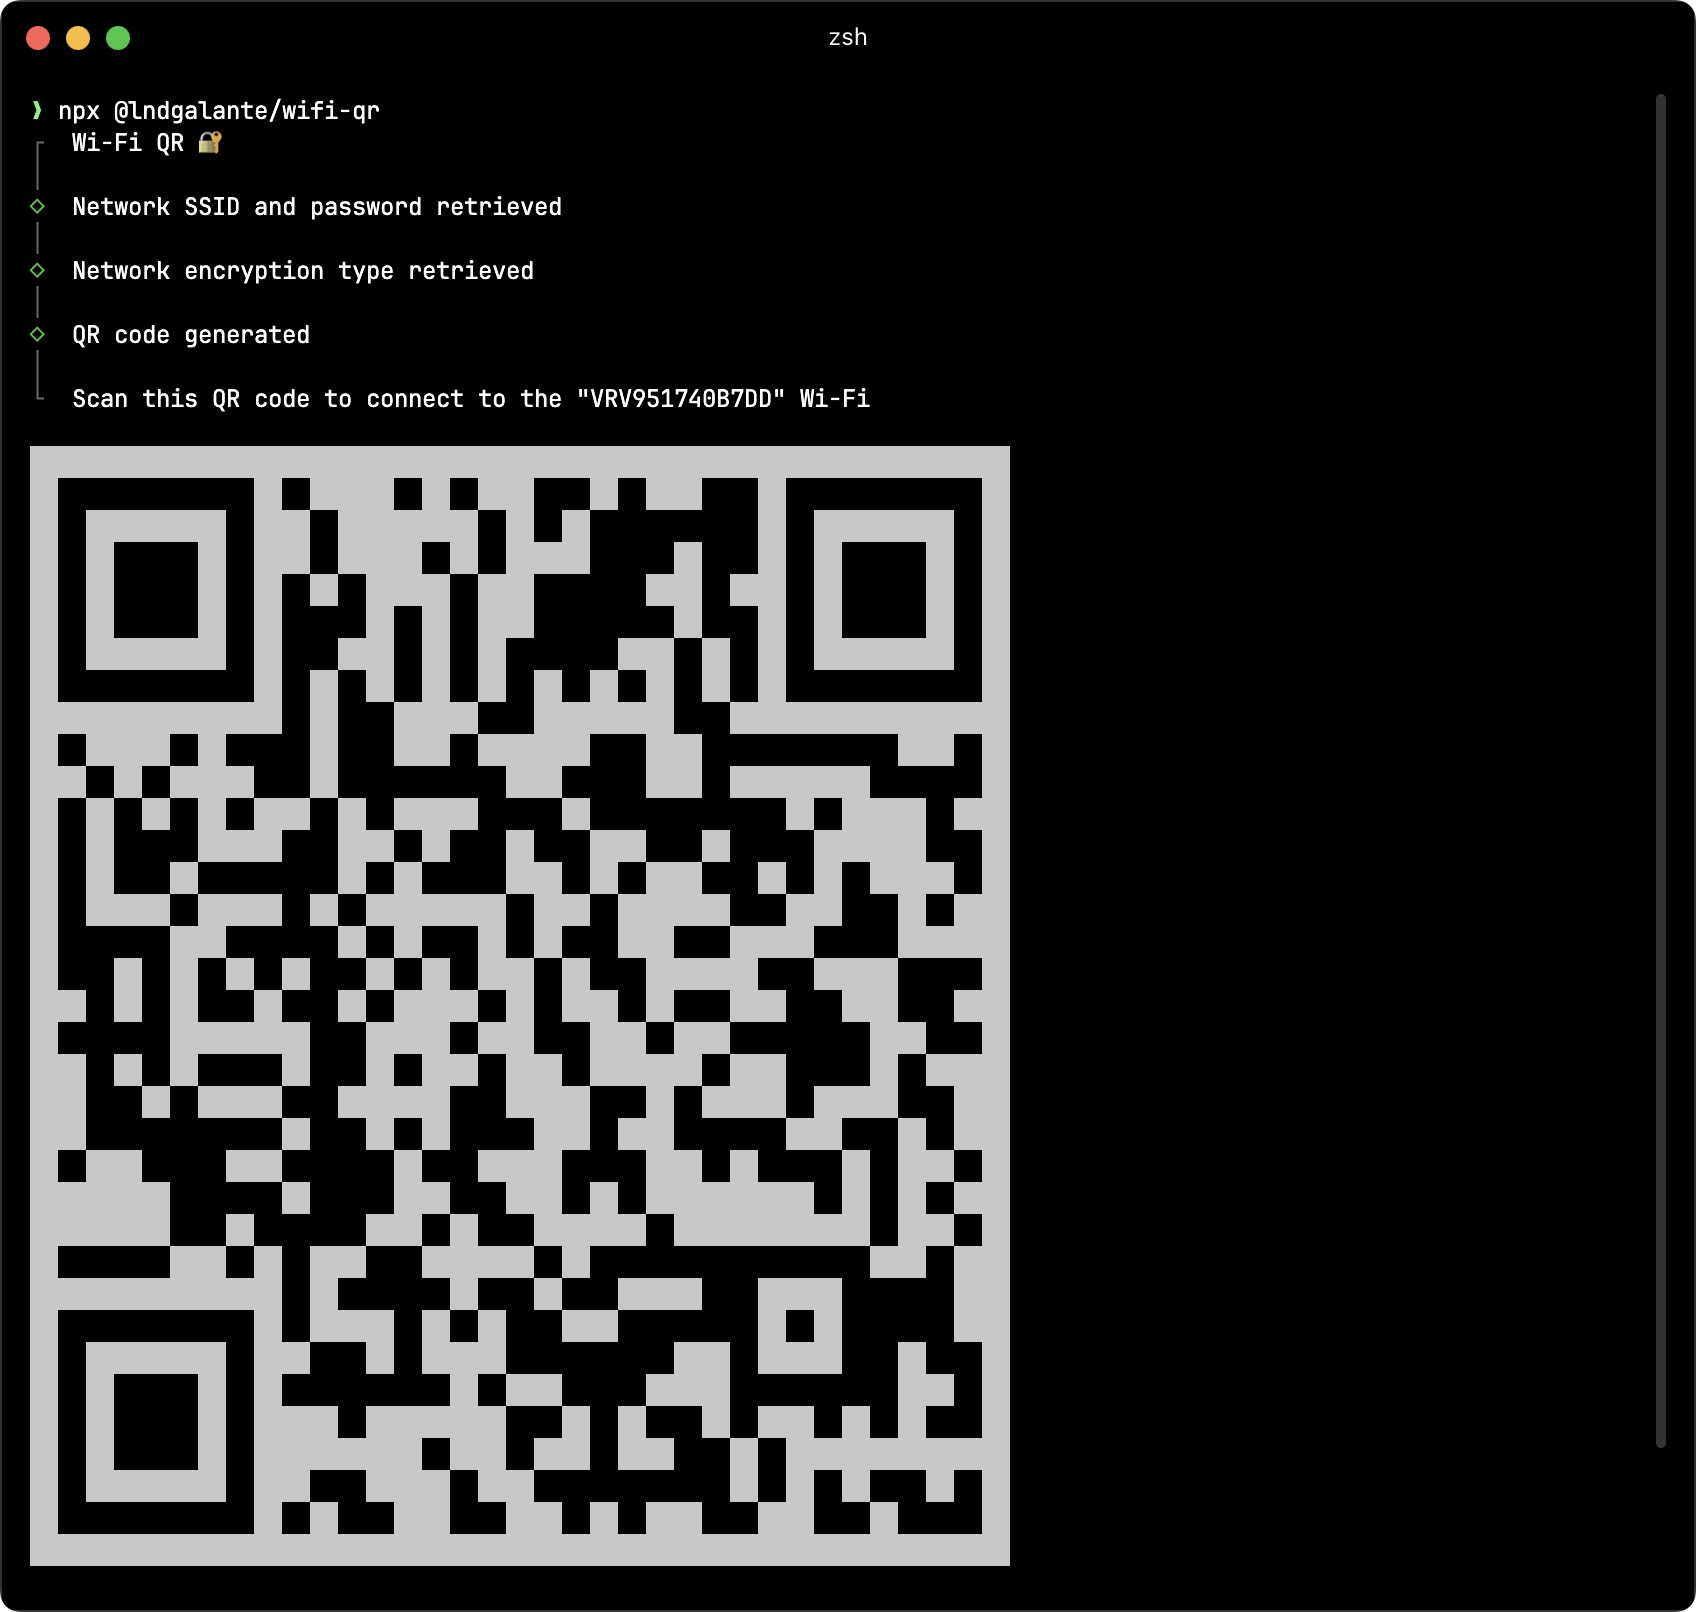
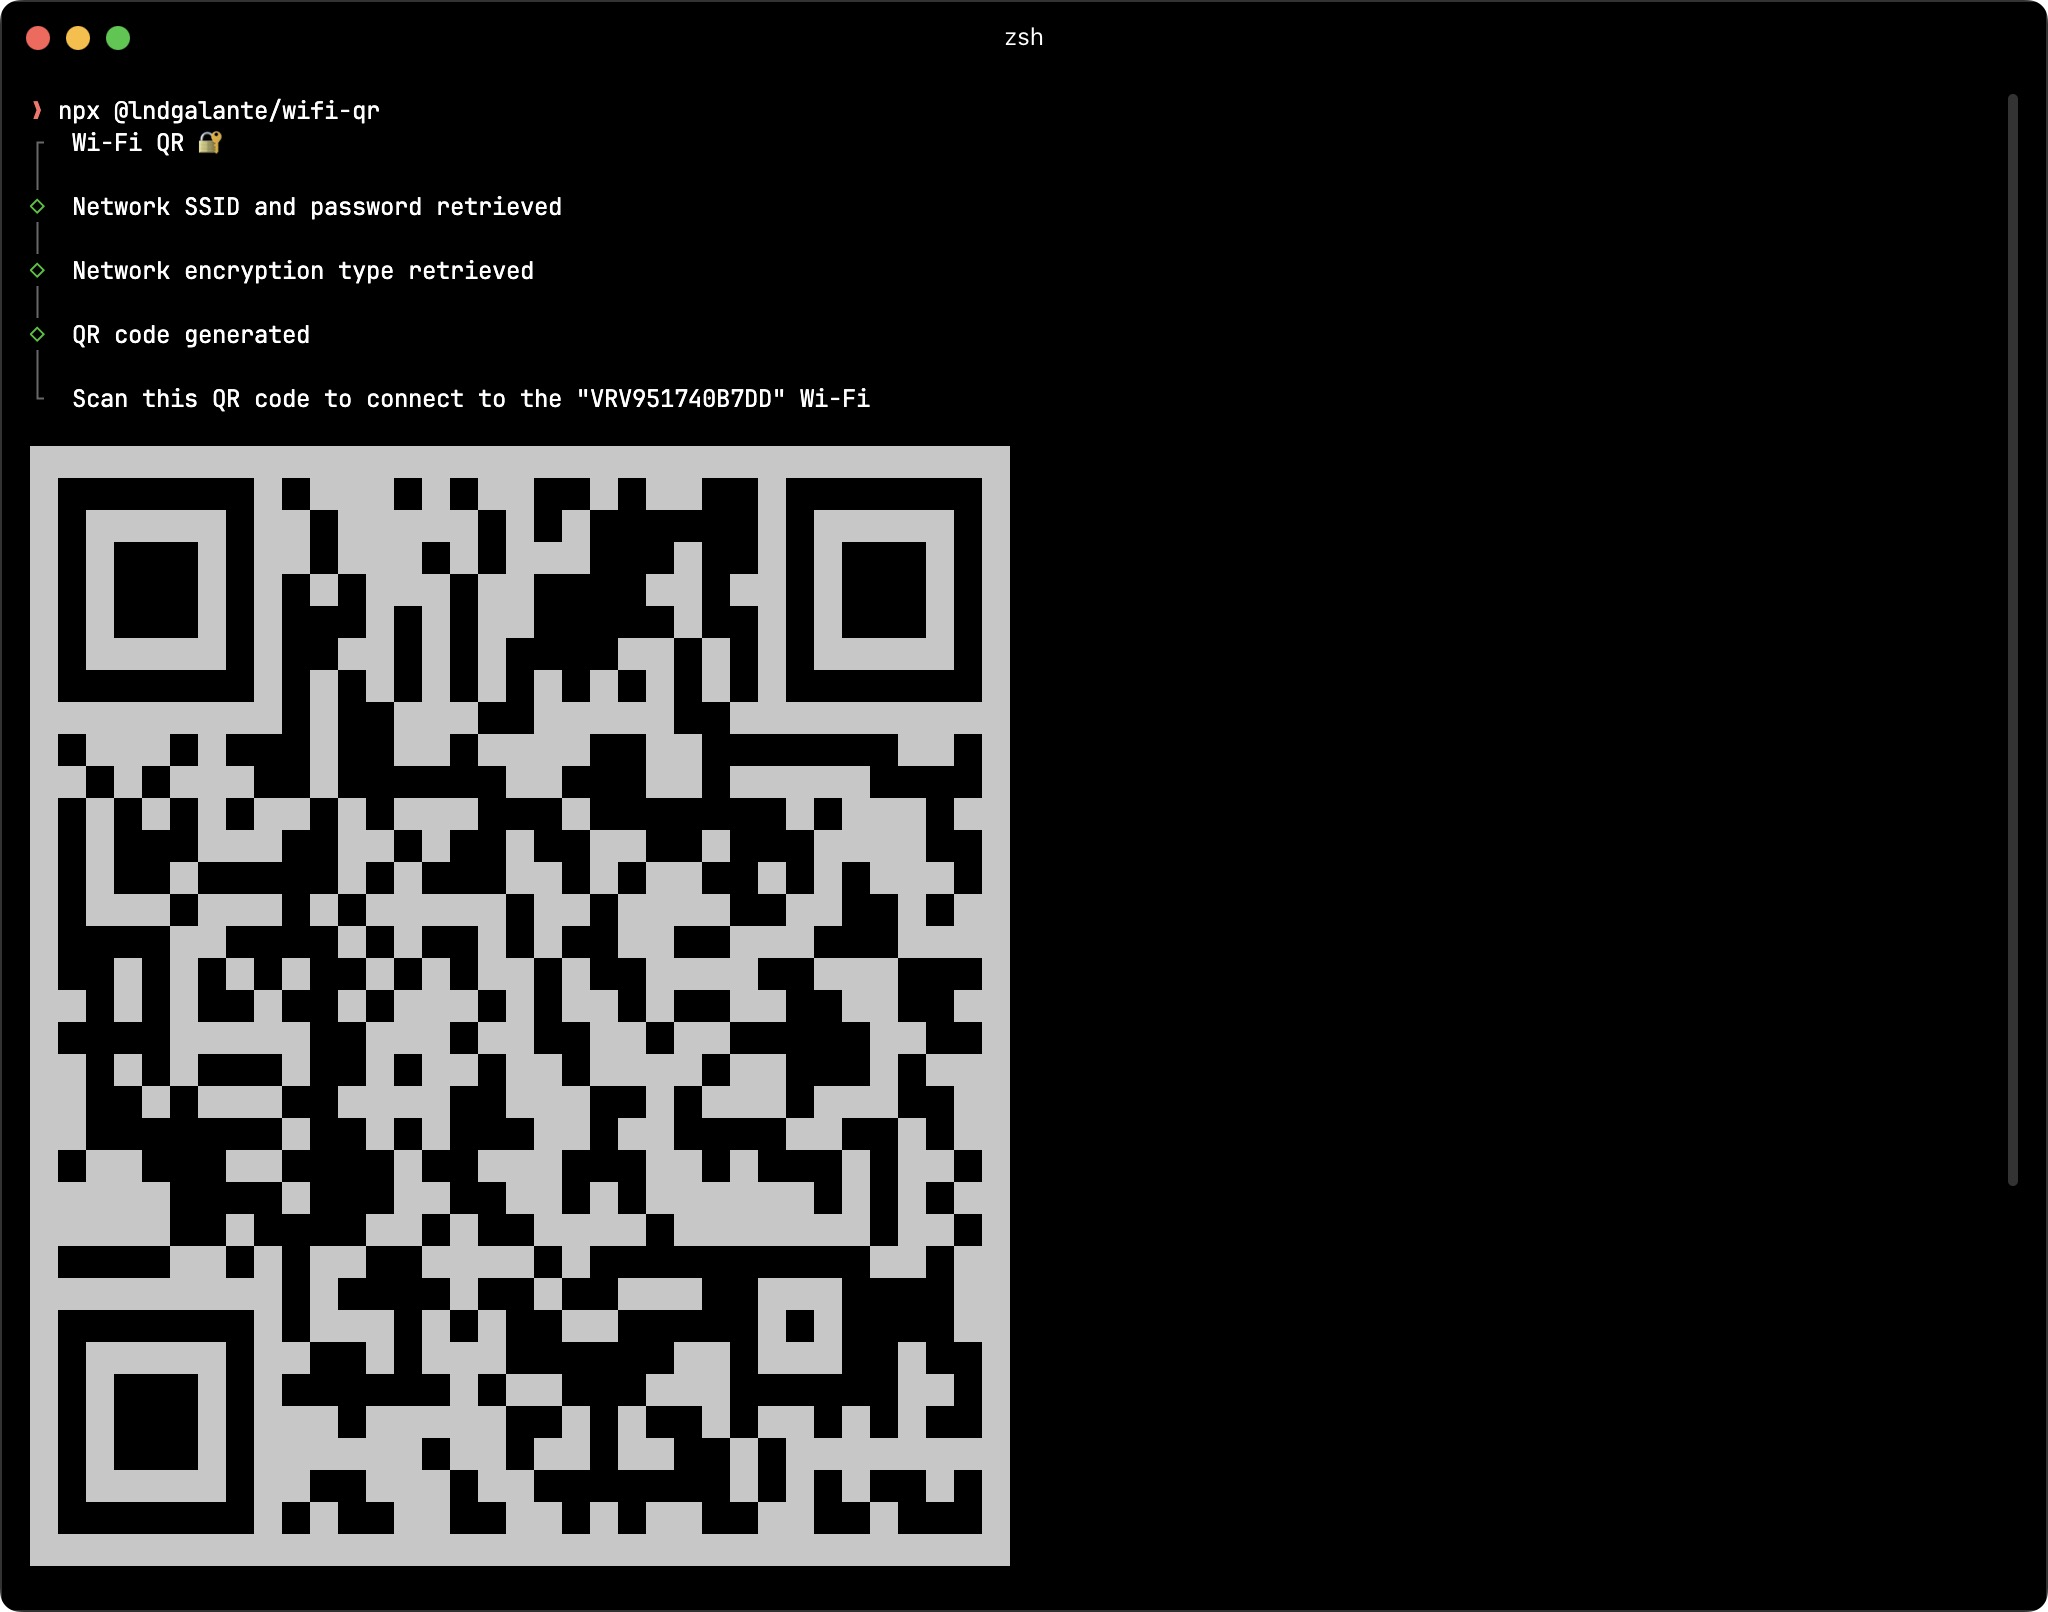
feat: Add helper for qr code

diff --git a/app.js b/app.js
@@ -45,10 +45,20 @@ function parseNetworkEncryption(networkEncryption) {
   return 'None';
 }
 
+function getTerminalQRCode(ssid, password, encryption) {
+  return qrcode.generateWifiQRCode({
+    ssid,
+    password,
+    encryption,
+    hiddenSSID: false,
+    outputFormat: { type: 'terminal' },
+  });
+}
+
 // CLI
 async function main() {
   try {
-    intro(`Wi-Fi QR 🔐`);
+    intro(`🛜  Wi-Fi QR`);
     const loader = spinner();
 
     // get network ssid and password
@@ -67,22 +77,20 @@ async function main() {
 
     // generate qr code
     loader.start('Generating QR code...');
-    const qr = await qrcode.generateWifiQRCode({
-      ssid,
-      password,
-      encryption,
-      hiddenSSID: false,
-      outputFormat: { type: 'terminal' },
-    });
+    const qr = await getTerminalQRCode(ssid, password, encryption);
     await delay(DELAY);
     loader.stop('QR code generated');
 
-    outro(`Scan this QR code to connect to the "${ssid}" Wi-Fi`);
+    outro(`🤳 Scan this QR code to connect to the "${ssid}" Wi-Fi`);
     console.log(qr);
   } catch (error) {
-    cancel(`Something went wrong: ${error.message}`);
+    cancel(`😭 Something went wrong: ${error.message}`);
     process.exit(0);
   }
 }
 
 main();
+
+// TODO LIST
+// - [ ] Can we use TS?
+// - [ ] Record live demo and upload to YT
